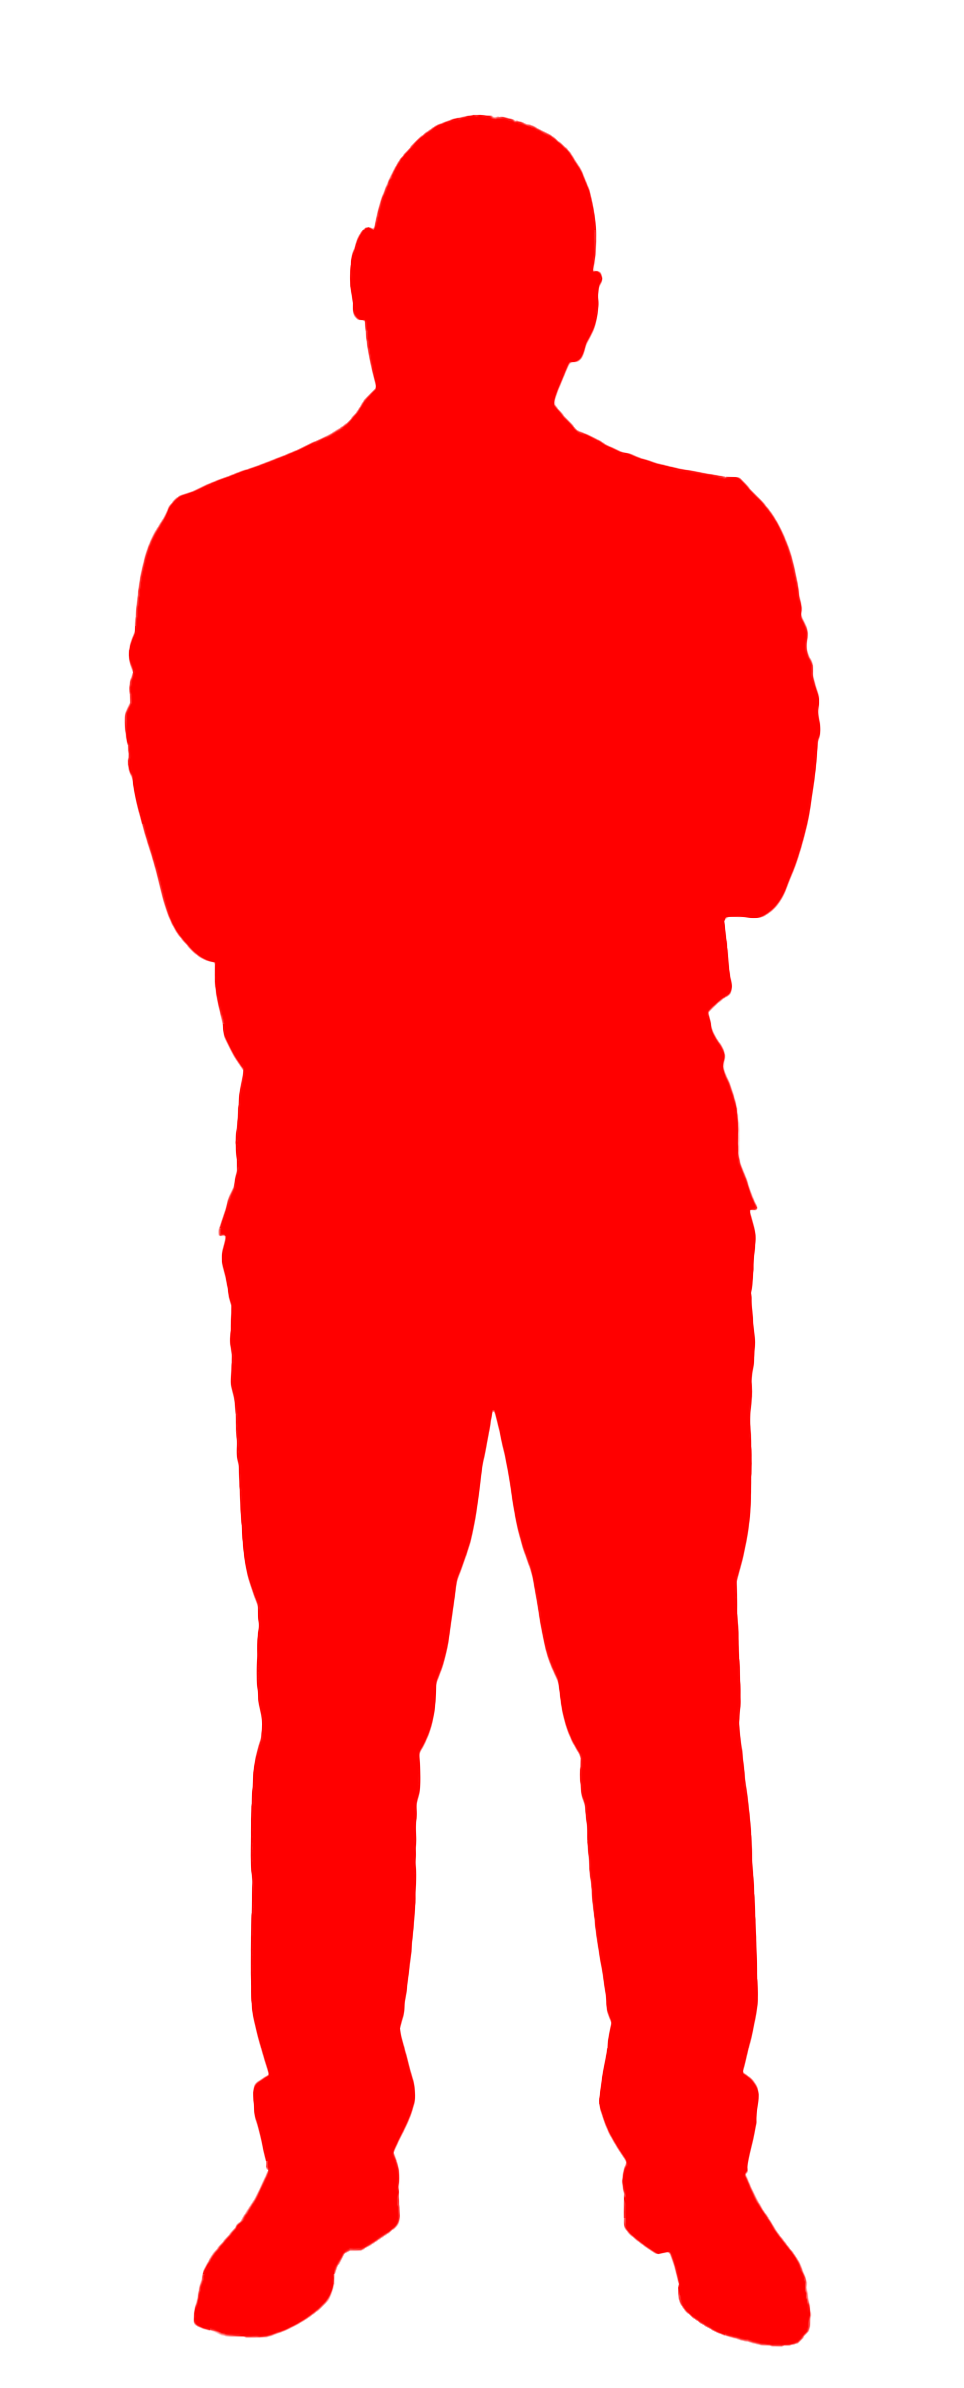
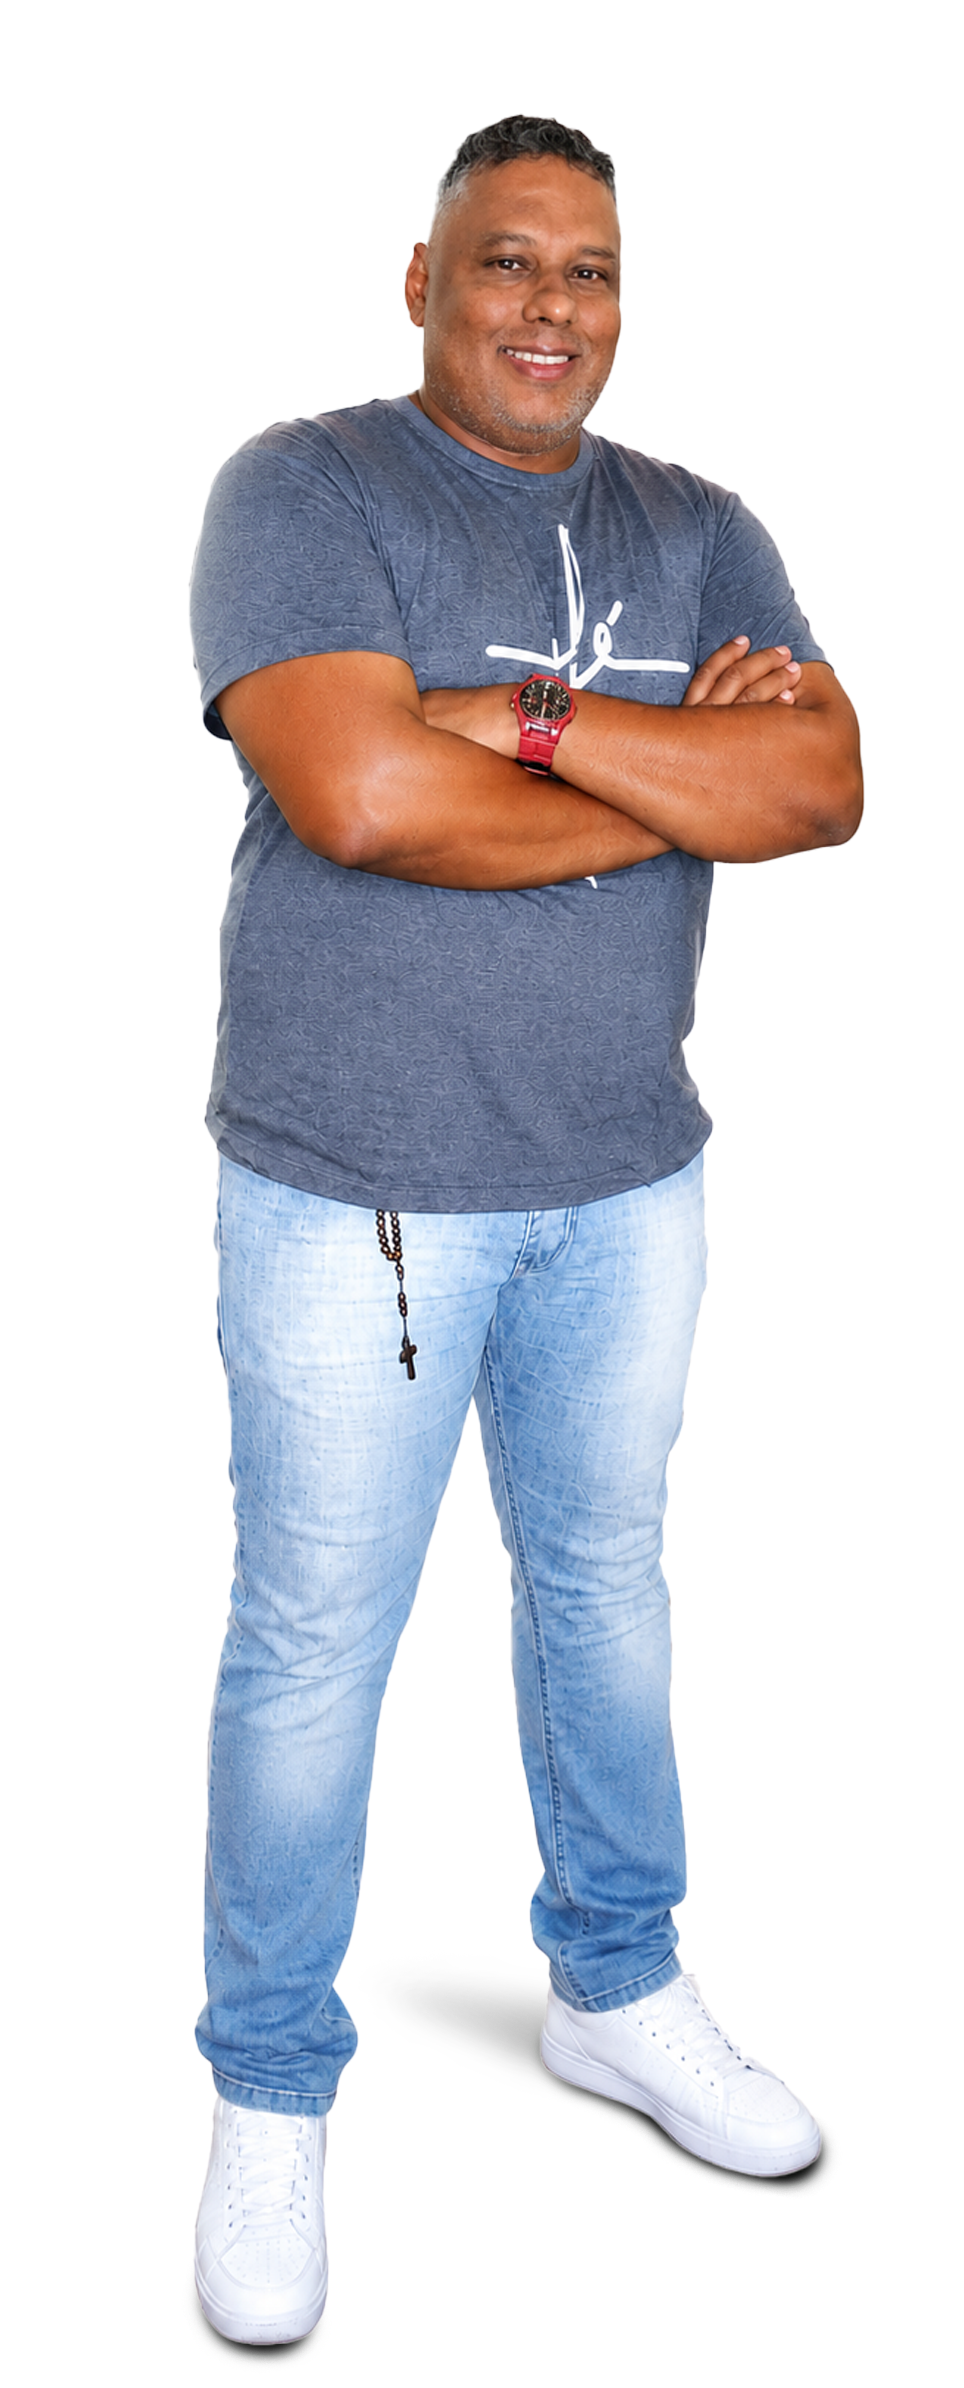
Update radio stream URL and fix UI alignment

diff --git a/script.js b/script.js
@@ -10,19 +10,19 @@ const visualizerBars = document.querySelectorAll('.bar');
 // Program Schedule Data
 const schedule = [
     // --- SEGUNDA A SEXTA ---
-    { days: [1, 2, 3, 4, 5], start: "05:00:00", end: "06:00:00", program: "RAIANDO O DIA", host: "Leidiano", photo: "assets/_Leidiano.png", timeRange: "05:00 ÀS 06:00" },
+    { days: [1, 2, 3, 4, 5], start: "05:00:00", end: "06:00:00", program: "PROGRAMA RAIANDO O DIA", host: "Leidiano", photo: "assets/_Leidiano.png", timeRange: "05:00 ÀS 06:00" },
     { days: [1, 2, 3, 4, 5], start: "06:00:00", end: "06:20:00", program: "UMA LUZ EM SEU CAMINHO", host: "NÃO INFORMADO", photo: "assets/Luz_do_Sertao.png", timeRange: "06:00 ÀS 06:20" },
     { days: [1, 2, 3, 4, 5], start: "06:20:00", end: "08:00:00", program: "PROGRAMA AMANHECER SERTANEJO", host: "Valdemir Batista", photo: "assets/Valdemir_Batista.png", timeRange: "06:20 ÀS 08:00" },
     { days: [1, 2, 3, 4, 5], start: "08:00:00", end: "10:00:00", program: "PROGRAMA SHOW DA MANHÃ", host: "Mannoel Mix", photo: "assets/Mannoel_Mix.png", timeRange: "08:00 ÀS 10:00" },
     { days: [1, 2, 3, 4, 5], start: "10:00:00", end: "12:00:00", program: "PROGRAMA SUPER MANHÃ", host: "Jota Neto", photo: "assets/Jota_Neto.png", timeRange: "10:00 ÀS 12:00" },
     { days: [1, 2, 3, 4, 5], start: "12:00:00", end: "13:00:00", program: "PROGRAMA A HORA DO BODE", host: "Robson Rodrigues", photo: "assets/Robson_Rodrigues.png", timeRange: "12:00 ÀS 13:00" },
     { days: [1, 2, 3, 4, 5], start: "13:00:00", end: "15:00:00", program: "PROGRAMA TARDE INTERATIVA", host: "Jadilson Reis", photo: "assets/Jadilson_Reis.png", timeRange: "13:00 ÀS 15:00" },
-    { days: [1, 2, 3, 4, 5], start: "15:00:00", end: "17:00:00", program: "PROGRAMA TARDE DE SUCESSOS", host: "Tiago Moreno", photo: "assets/Tiago_Moreno.png", timeRange: "15:00 ÀS 17:00" },
+    { days: [1, 2, 3, 4, 5], start: "15:00:00", end: "17:00:00", program: "PROGRAMA TADE DE SUCESSOS", host: "Tiago Moreno", photo: "assets/Tiago_Moreno.png", timeRange: "15:00 ÀS 17:00" },
     { days: [1, 2, 3, 4, 5], start: "17:00:00", end: "19:00:00", program: "PROGRAMA ISSO É SERTÃO", host: "Chico Mocó", photo: "assets/Chico_Moco.png", timeRange: "17:00 ÀS 19:00" },
     { days: [1, 2, 3, 4, 5], start: "19:00:00", end: "20:00:00", program: "A VOZ DO BRASIL", host: "A Voz do Brasil", photo: "assets/A_Voz_do_Brasil.png", timeRange: "19:00 ÀS 20:00" },
     { days: [1, 2, 3, 4, 5], start: "20:00:00", end: "22:00:00", program: "A VOZ DO COOPERATIVISMO", host: "COOPERCUC", photo: "assets/Hilario_Ortega.png", timeRange: "20:00 ÀS 22:00" },
     { days: [1, 2, 3, 4, 5], start: "22:00:00", end: "23:59:59", program: "PROGRAMA MOMENTO DE AMOR", host: "Willian Gonzaga", photo: "assets/Willian_Gonzaga.png", timeRange: "22:00 ÀS 00:00" },
-    
+
     // --- SÁBADO ---
     { days: [6], start: "06:00:00", end: "08:00:00", program: "PROGRAMA AMANHECER SERTANEJO", host: "Valdemir Batista", photo: "assets/Valdemir_Batista.png", timeRange: "06:00 ÀS 08:00" },
     { days: [6], start: "08:00:00", end: "09:00:00", program: "A VOZ DO COOPERATIVISMO", host: "A Voz do Cooperativismo", photo: "assets/Luz_do_Sertao.png", timeRange: "08:00 ÀS 09:00" },
@@ -34,7 +34,7 @@ const schedule = [
     { days: [6], start: "14:00:00", end: "15:30:00", program: "PROGRAMA A VOZ DA PROFECIA", host: "Igreja Adventista", photo: "assets/Luz_do_Sertao.png", timeRange: "14:00 ÀS 15:30" },
     { days: [6], start: "15:30:00", end: "16:00:00", program: "PROGRAMA EUFONIA", host: "UNEB", photo: "assets/Luz_do_Sertao.png", timeRange: "15:30 ÀS 16:00" },
     { days: [6], start: "16:00:00", end: "17:00:00", program: "PROGRAMA IGREJA TABERNÁCULO DA FÉ", host: "Religioso", photo: "assets/Luz_do_Sertao.png", timeRange: "16:00 ÀS 17:00" },
-    { days: [6], start: "17:00:00", end: "19:00:00", program: "UAUÁ, BAHIA, BRASIL, PANDEIRO", host: "Pedro Peixinho", photo: "assets/Pedro_Peixinho.png", timeRange: "17:00 ÀS 19:00" },
+    { days: [6], start: "17:00:00", end: "19:00:00", program: "PROGRAMA UAUÁ, BAHIA, BRASIL, PANDEIRO", host: "Pedro Peixinho", photo: "assets/Pedro_Peixinho.png", timeRange: "17:00 ÀS 19:00" },
     { days: [6], start: "19:00:00", end: "21:00:00", program: "PROGRAMA TOCA TUDO", host: "Willian Gonzaga", photo: "assets/Willian_Gonzaga.png", timeRange: "19:00 ÀS 21:00" },
     { days: [6], start: "21:00:00", end: "23:00:00", program: "PROGRAMA NOITE DE SUCESSOS", host: "Hilário Ortega", photo: "assets/Hilario_Ortega.png", timeRange: "21:00 ÀS 23:00" },
 
@@ -45,21 +45,28 @@ const schedule = [
     { days: [0], start: "11:00:00", end: "13:00:00", program: "PROGRAMA PARADA POPULAR", host: "Jadilson Reis", photo: "assets/Jadilson_Reis.png", timeRange: "11:00 ÀS 13:00" },
     { days: [0], start: "13:00:00", end: "14:30:00", program: "RÁDIO LUZ DO SERTÃO", host: "Rádio Luz do Sertão", photo: "assets/Luz_do_Sertao.png", timeRange: "13:00 ÀS 14:30" },
     { days: [0], start: "14:30:00", end: "16:00:00", program: "PROGRAMA VIDA NOVA COM CRISTO", host: "Igreja Batista", photo: "assets/Luz_do_Sertao.png", timeRange: "14:30 ÀS 16:00" },
-    { days: [0], start: "16:00:00", end: "19:00:00", program: "PROGRAMA ROCK-REGGAE MUSICAL", host: "Hilário Ortega", photo: "assets/Hilario_Ortega.png", timeRange: "16:00 ÀS 19:00" },
+    { days: [0], start: "16:00:00", end: "18:00:00", program: "PROGRAMA ROCK-REGGAE MUSICAL", host: "Hilário Ortega", photo: "assets/Hilario_Ortega.png", timeRange: "16:00 ÀS 18:00" },
     { days: [0], start: "19:00:00", end: "21:30:00", program: "PROGRAMA CULTO IGREJA BATISTA", host: "Igreja Batista", photo: "assets/Luz_do_Sertao.png", timeRange: "19:00 ÀS 21:30" },
     { days: [0], start: "21:30:00", end: "23:59:59", program: "RÁDIO LUZ DO SERTÃO", host: "Rádio Luz do Sertão", photo: "assets/Luz_do_Sertao.png", timeRange: "21:30 ÀS 00:00" }
 ];
 
 // Audio Context
 let isPlaying = false;
-let audio = new Audio("http://stm1.uauhost.com.br:7506/stream"); 
+const streamUrl = "http://stm1.uauhost.com.br:7506/stream";
+let audio = new Audio(streamUrl); 
 audio.volume = 0.8; 
 audio.autoplay = true;
 
 // Adicionar evento para detectar erro de carregamento do áudio
 audio.addEventListener('error', (e) => {
     console.error("Erro no stream de áudio:", e);
-    // Se falhar o http, tentar sem o /stream ou com outro protocolo se necessário
+    // Tenta um fallback comum para Shoutcast se o principal falhar
+    if (audio.src.includes('/stream')) {
+        console.log("Tentando fallback do stream...");
+        audio.src = "http://stm1.uauhost.com.br:7506/;";
+        audio.load();
+        if (isPlaying) audio.play().catch(() => {});
+    }
 });
 
 function togglePlayback() {
@@ -76,17 +83,25 @@ function togglePlayback() {
 // Sincroniza a interface com o estado real do áudio (útil para autoplay)
 audio.addEventListener('play', () => {
     isPlaying = true;
-    playIcon.setAttribute('data-lucide', 'pause');
+    const icon = playBtn.querySelector('i');
+    if (icon) icon.setAttribute('data-lucide', 'pause');
     startVisualizer();
-    lucide.createIcons();
+    safeCreateIcons();
 });
 
 audio.addEventListener('pause', () => {
     isPlaying = false;
-    playIcon.setAttribute('data-lucide', 'play');
+    const icon = playBtn.querySelector('i');
+    if (icon) icon.setAttribute('data-lucide', 'play');
     stopVisualizer();
-    lucide.createIcons();
+    safeCreateIcons();
 });
+
+function safeCreateIcons() {
+    if (typeof lucide !== 'undefined') {
+        lucide.createIcons();
+    }
+}
 
 function updateVolume(val) {
     audio.volume = val;
@@ -125,6 +140,8 @@ function updateCurrentProgram() {
         return item.days.includes(currentDay) && currentSeconds >= startSec && currentSeconds < endSec;
     });
 
+    console.log(`Hora: ${now.getHours()}:${now.getMinutes()}:${now.getSeconds()} | Programa: ${activeProgram ? activeProgram.program : 'Nenhum'}`);
+
     if (!activeProgram) {
         activeProgram = {
             program: "PROGRAMAÇÃO MUSICAL",
@@ -134,7 +151,7 @@ function updateCurrentProgram() {
         };
     }
 
-    if (currentShowEl && currentShowEl.innerText !== activeProgram.program) {
+    if (currentShowEl && currentShowEl.textContent !== activeProgram.program) {
         const infoContainer = currentShowEl.closest('.player-main-content');
         if (infoContainer) {
             infoContainer.classList.remove('fade-in-up');
@@ -142,9 +159,9 @@ function updateCurrentProgram() {
             infoContainer.classList.add('fade-in-up');
         }
 
-        currentShowEl.innerText = activeProgram.program;
-        currentHostEl.innerText = activeProgram.host;
-        timeRangeEl.innerText = activeProgram.timeRange;
+        currentShowEl.textContent = activeProgram.program;
+        currentHostEl.textContent = activeProgram.host;
+        timeRangeEl.textContent = activeProgram.timeRange;
         
         if (hostPhotoEl) {
             hostPhotoEl.src = activeProgram.photo;

diff --git a/index.html b/index.html
@@ -81,7 +81,12 @@
                     </div>
 
                     <div class="player-footer">
-                        <p>Volume</p>
+                        <div style="display: flex; justify-content: space-between; align-items: center; margin-bottom: 5px;">
+                            <p style="margin: 0;">Volume</p>
+                            <a href="http://stm1.uauhost.com.br:7506/stream" target="_blank" class="external-link" style="font-size: 0.75rem; color: var(--primary-blue); text-decoration: underline; display: flex; align-items: center; gap: 4px;">
+                                <i data-lucide="external-link" style="width: 12px;"></i> Player Externo
+                            </a>
+                        </div>
                         <input type="range" class="volume-slider" min="0" max="1" step="0.1" value="0.8" oninput="updateVolume(this.value)">
                     </div>
                 </div>

diff --git a/style.css b/style.css
@@ -655,14 +655,19 @@ footer {
 }
 
 /* Animations */
+/* Animação de transição para o player */
+.fade-in-up {
+    animation: fadeInUp 0.5s ease forwards;
+}
+
 @keyframes fadeInUp {
     from {
         opacity: 0;
-        transform: translateY(calc(-50% + 20px));
+        transform: translateY(10px);
     }
     to {
         opacity: 1;
-        transform: translateY(-50%);
+        transform: translateY(0);
     }
 }
 
